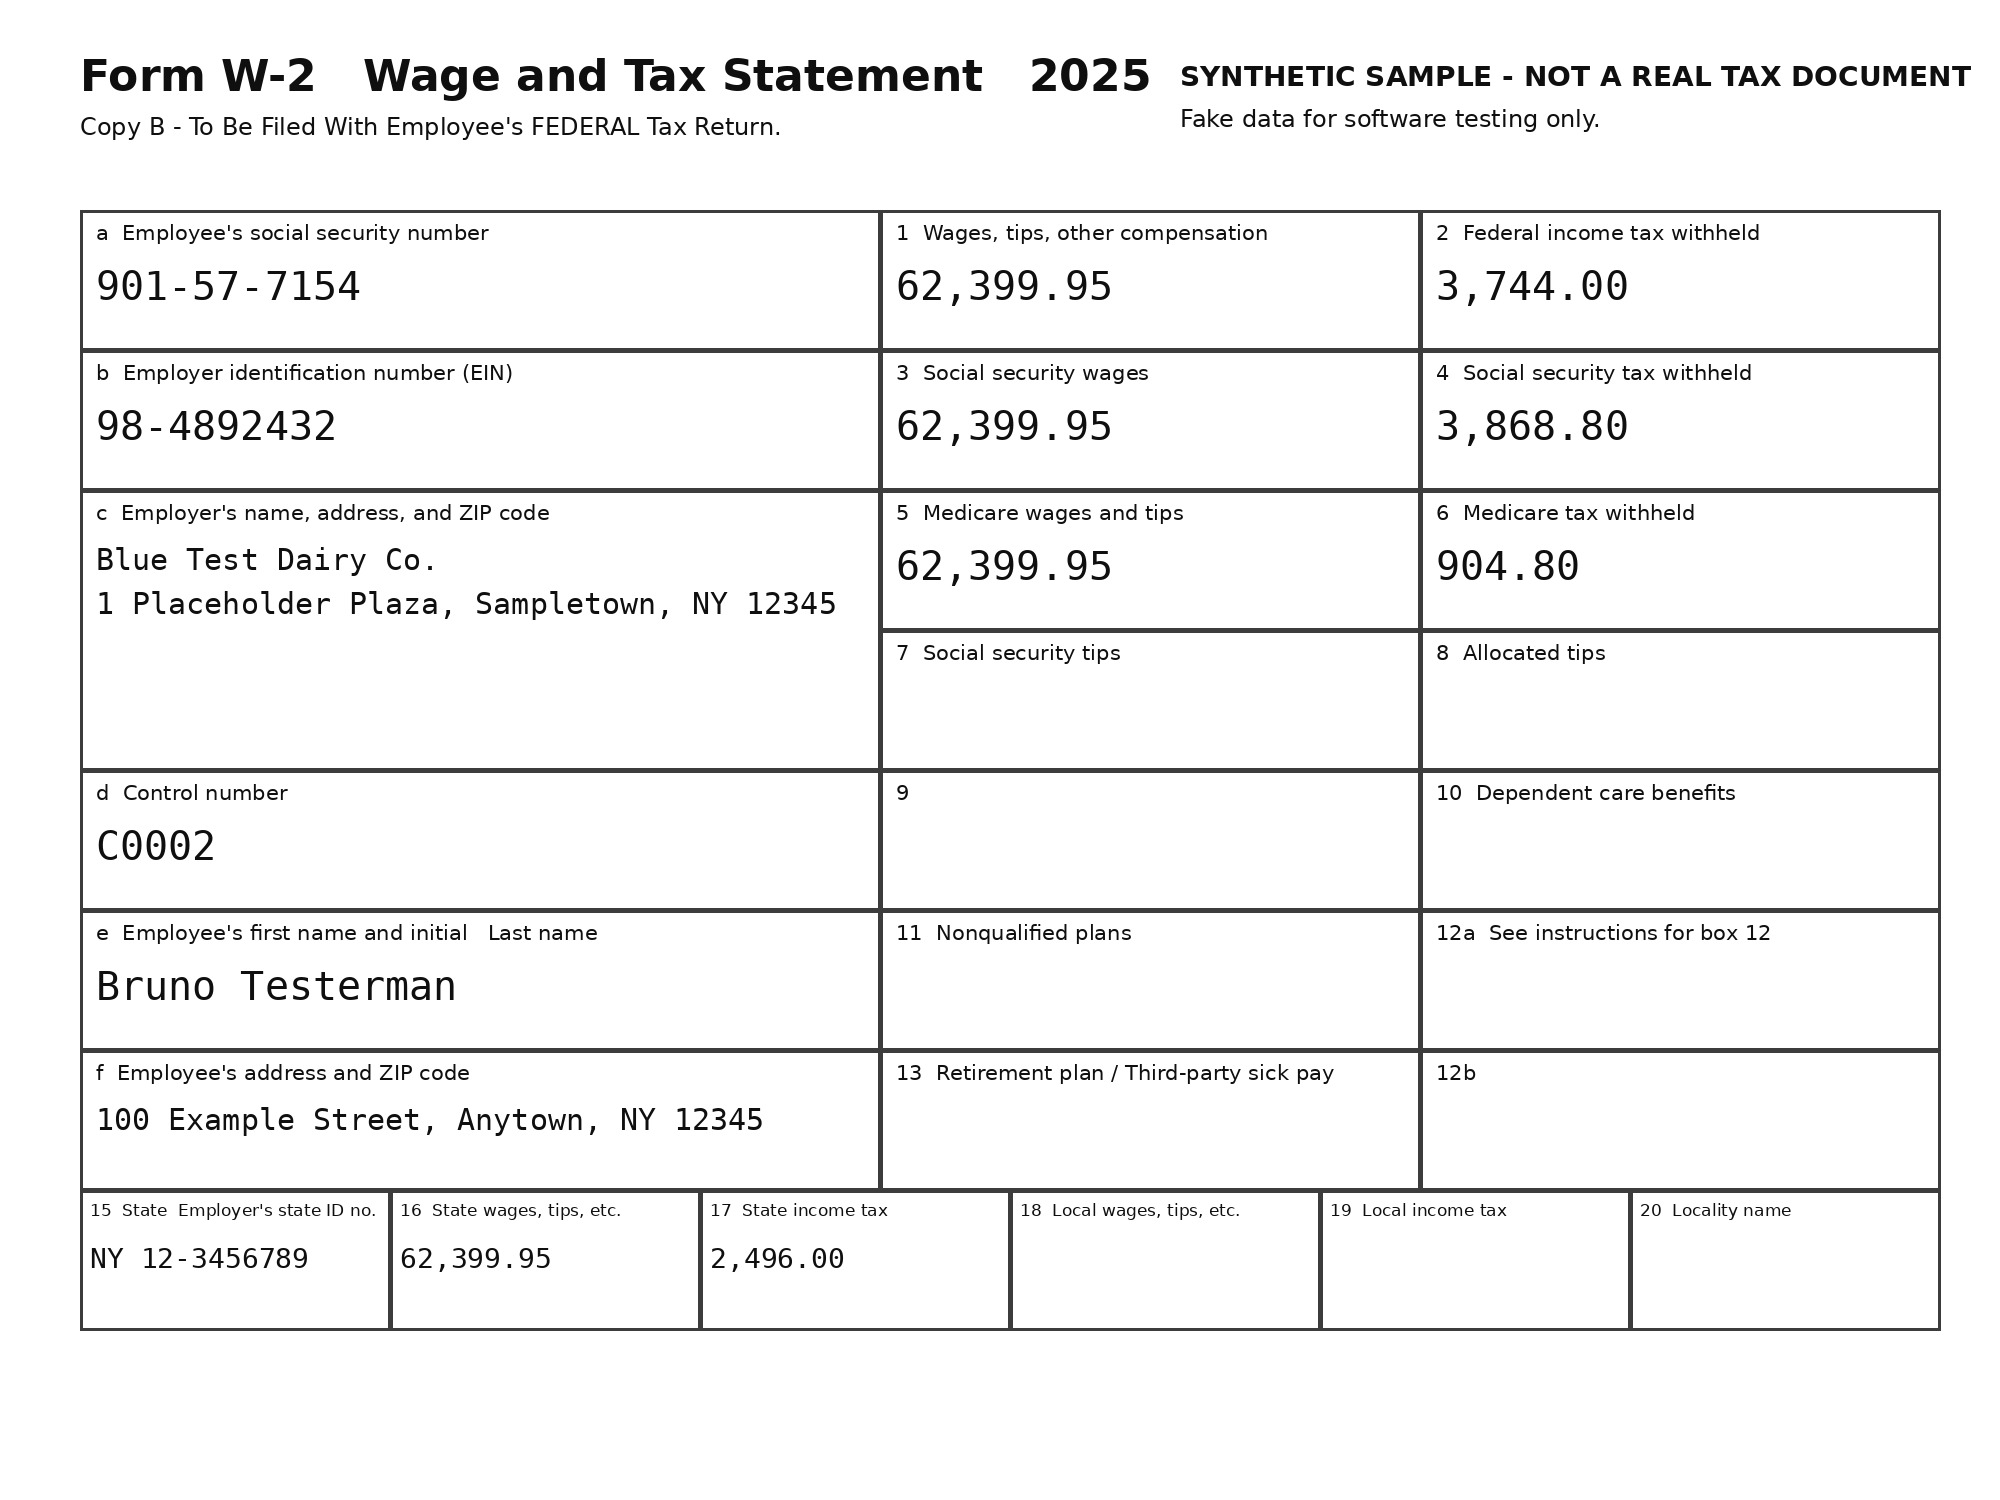
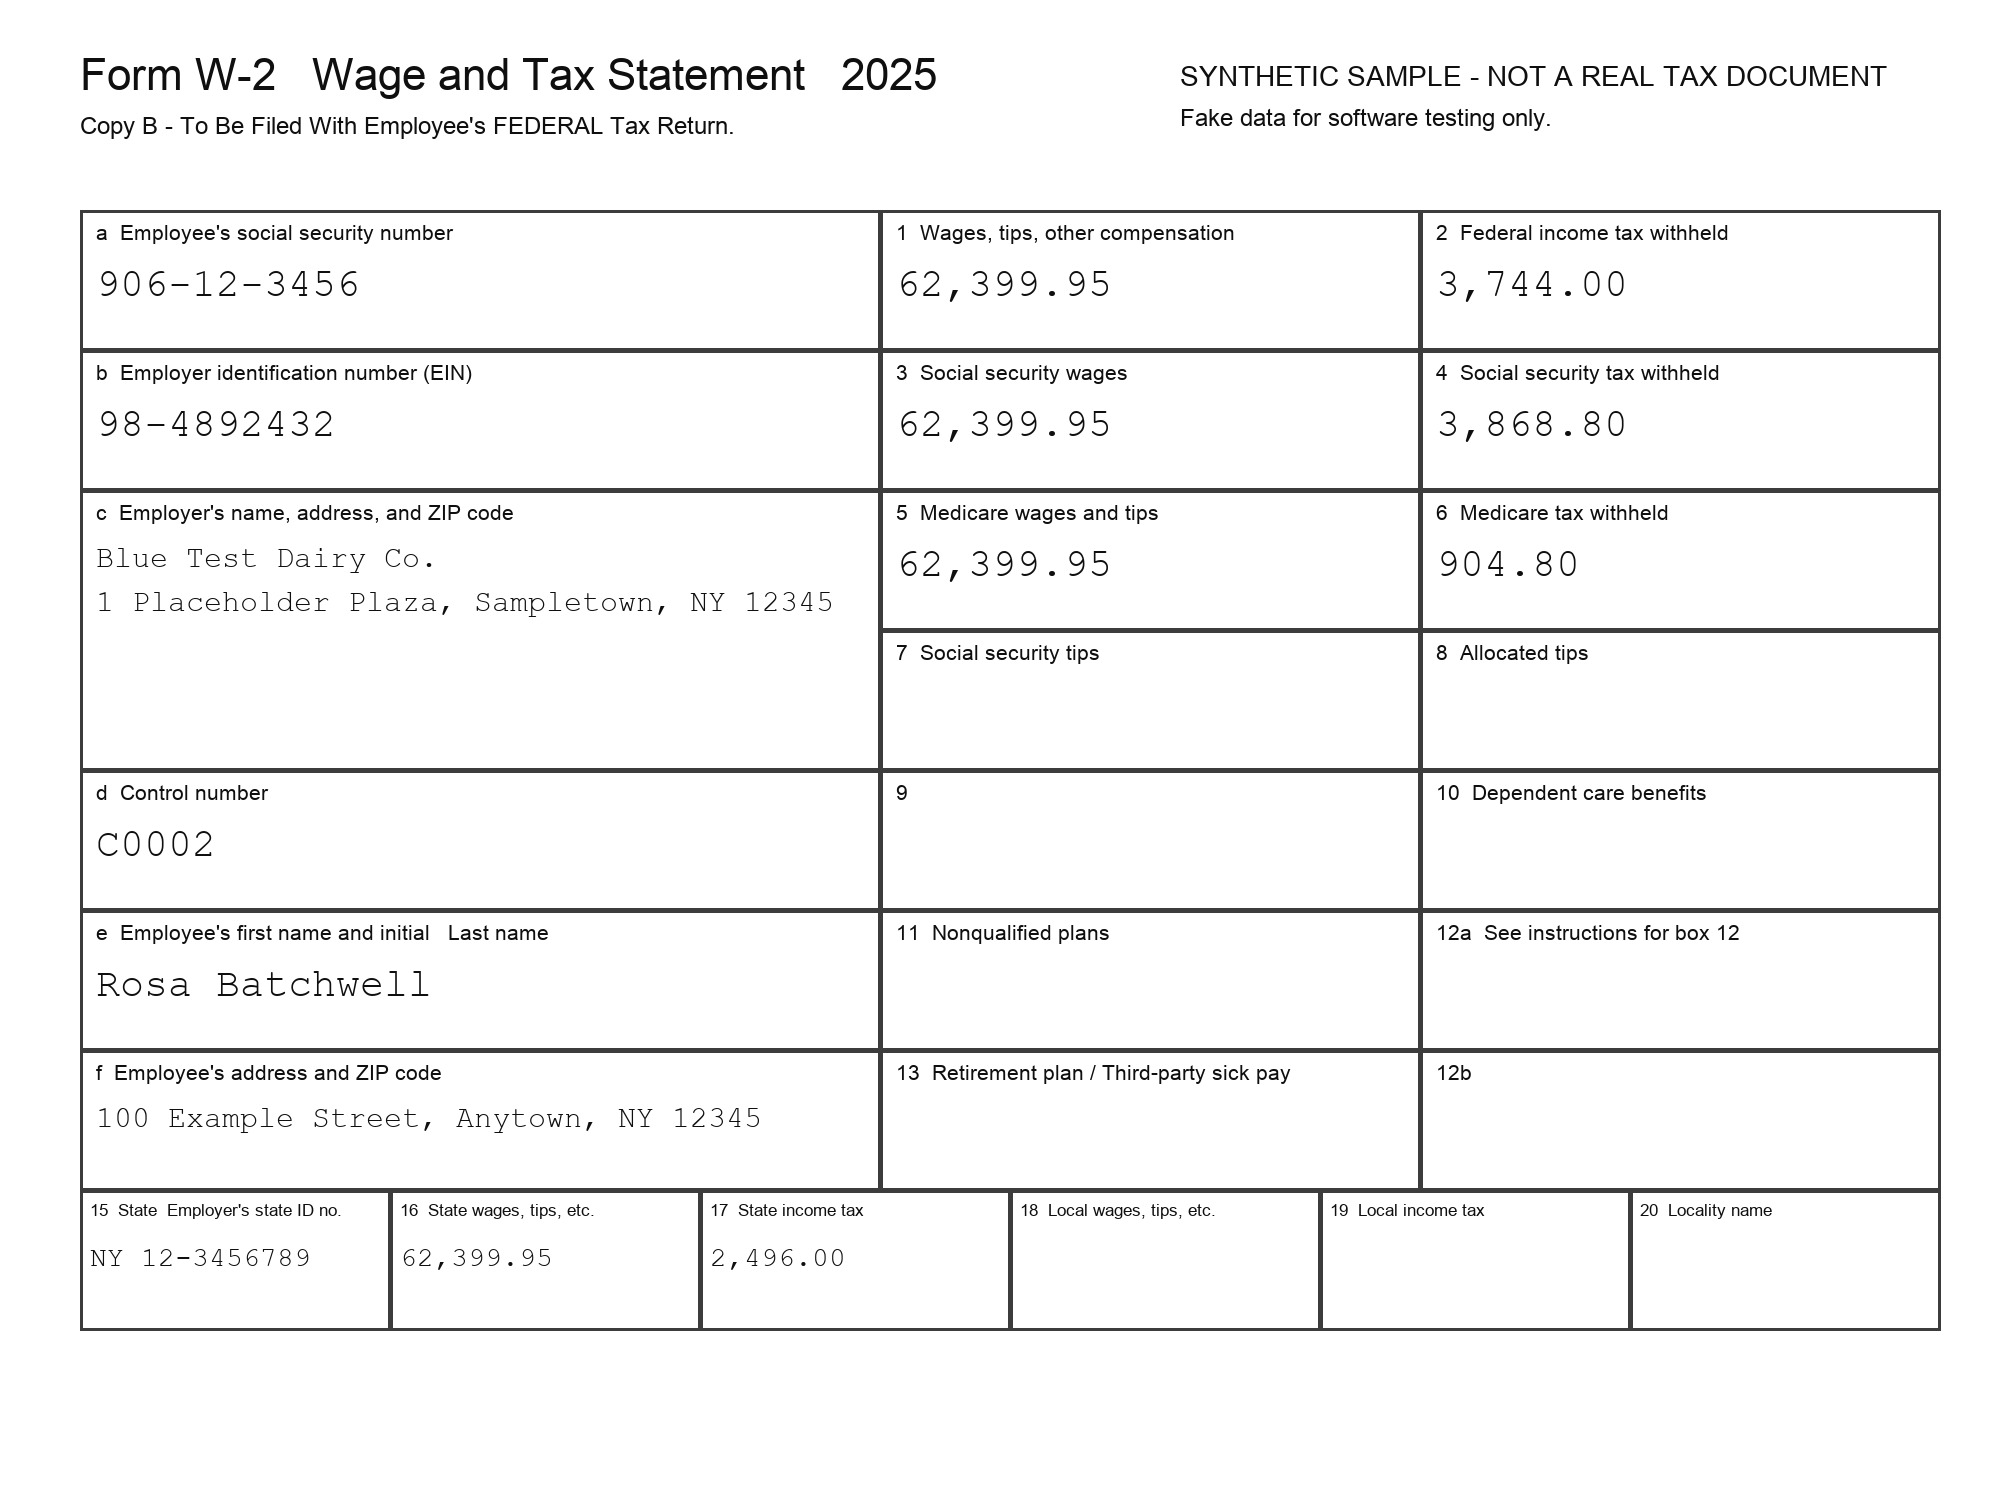
P4: Batch W-2s belong to one household (A24, D1)
The 10-document batch is defined as one household's documents, but each
W-2 had a different employee name and SSN. All ten now show one fictional
taxpayer (Rosa Batchwell, 906-12-3456) with ten different employers.
Amounts are unchanged: the generator still draws the same random numbers.
Images and truth files regenerated; fixture and OCR tests pass with
Tesseract 5.5.3.

diff --git a/data/generate_fixtures.py b/data/generate_fixtures.py
@@ -214,16 +214,18 @@ EDGE_CASES = [
     W2Spec(name="w2_real_looking_ssn", seed=66, employee_name="Casey Notreal", ssn="123-45-6789"),
 ]
 
-_FIRST = ["Alma", "Bruno", "Celia", "Dev", "Esme", "Felix", "Greta", "Hugo", "Ines", "Jules"]
-_LAST = ["Fakename", "Testerman", "Mockford", "Samplewood", "Placeholder", "Dummyfield", "Examplar",
-         "Trialson", "Stubbs", "Notreal"]
 _EMPLOYERS = ["Acme Demo Works", "Blue Test Dairy Co.", "Cedar Mock Clinic", "Delta Sample Freight",
               "Evergreen Fake Foods", "Fairview Pretend Bank", "Granite Trial Hardware",
               "Harbor Dummy Marine", "Iris Example Labs", "Juniper Sandbox Schools"]
 
 
+# A24 / D1: the batch is 10 documents for ONE household, so every W-2 has the same employee.
+BATCH_EMPLOYEE = ("Rosa Batchwell", "906-12-3456")
+
+
 def batch_specs(count: int = 10) -> list[W2Spec]:
-    """Ten different fake W-2s for the batch / context-window measurement (TEAM.md: P4 -> P3)."""
+    """Ten fake W-2s from ten employers for one taxpayer: the batch / context-window measurement
+    (TEAM.md: P4 -> P3)."""
     rng = random.Random(2025)
     specs = []
     for n in range(count):
@@ -231,9 +233,10 @@ def batch_specs(count: int = 10) -> list[W2Spec]:
         withheld = (wages * Decimal(rng.choice(["0.06", "0.08", "0.10", "0.12"]))).quantize(Decimal("0.01"))
         ss_tax = (wages * Decimal("0.062")).quantize(Decimal("0.01"), rounding=ROUND_HALF_UP)
         med_tax = (wages * Decimal("0.0145")).quantize(Decimal("0.01"), rounding=ROUND_HALF_UP)
+        rng.randrange(10, 99), rng.randrange(1000, 9999)  # formerly per-document SSN digits; keeps amounts stable
         specs.append(W2Spec(
             name=f"w2_batch_{n + 1:02d}", seed=100 + n, style="clean",
-            employee_name=f"{_FIRST[n]} {_LAST[n]}", ssn=f"9{n:02d}-{rng.randrange(10, 99)}-{rng.randrange(1000, 9999)}",
+            employee_name=BATCH_EMPLOYEE[0], ssn=BATCH_EMPLOYEE[1],
             ein=f"98-{rng.randrange(1000000, 9999999)}", employer_name=_EMPLOYERS[n],
             control_number=f"C{n + 1:04d}", wages=str(wages), withheld=str(withheld), ss_wages=str(wages),
             ss_tax=str(ss_tax), medicare_wages=str(wages), medicare_tax=str(med_tax),
